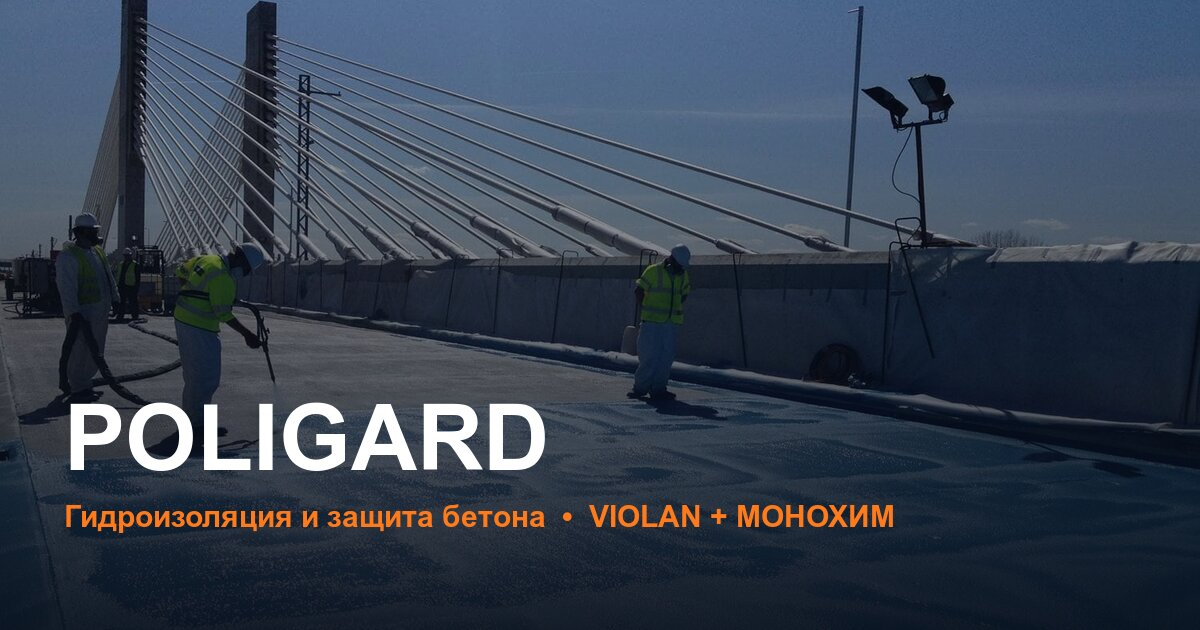
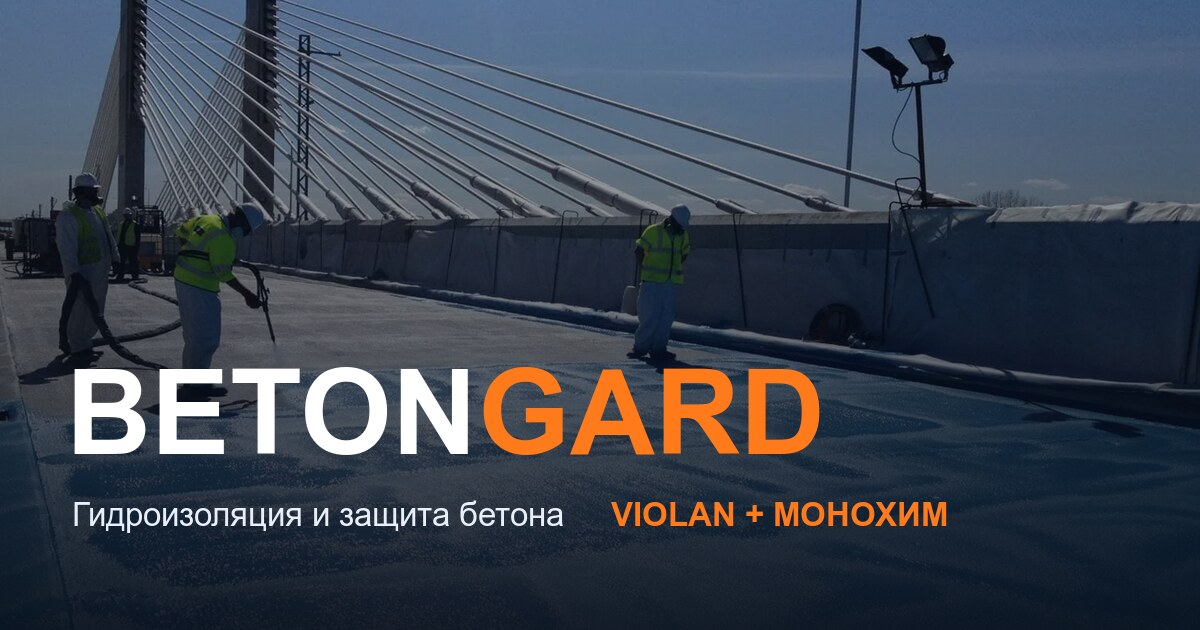
BETONGARD: пересоздан og-image (POLIGARD -> BETONGARD), +версия для сброса кэша соцсетей

Changed region(s): [[0.0, 0.0, 1.0, 0.8444]]

diff --git a/index.html b/index.html
@@ -13,12 +13,12 @@
   <meta property="og:title" content="BETONGARD: гидроизоляция и защита бетона | VIOLAN + МОНОХИМ">
   <meta property="og:description" content="Жидкая гидроизоляция, защита и ремонт бетона, промышленные полы. Собственное производство в Алматы. Срок службы покрытий 10–20 лет.">
   <meta property="og:url" content="https://ali-hub-01.github.io/betongard/">
-  <meta property="og:image" content="https://ali-hub-01.github.io/betongard/assets/og-image.jpg">
+  <meta property="og:image" content="https://ali-hub-01.github.io/betongard/assets/og-image.jpg?v=2">
   <meta property="og:locale" content="ru_RU">
   <meta name="twitter:card" content="summary_large_image">
   <meta name="twitter:title" content="BETONGARD: гидроизоляция и защита бетона | VIOLAN + МОНОХИМ">
   <meta name="twitter:description" content="Жидкая гидроизоляция, защита и ремонт бетона, промышленные полы. Собственное производство в Алматы.">
-  <meta name="twitter:image" content="https://ali-hub-01.github.io/betongard/assets/og-image.jpg">
+  <meta name="twitter:image" content="https://ali-hub-01.github.io/betongard/assets/og-image.jpg?v=2">
 
   <link rel="icon" type="image/svg+xml" href="assets/favicon.svg">
 
@@ -35,7 +35,7 @@
     "name": "BETONGARD",
     "description": "Строительная химия и гидроизоляция: жидкая гидроизоляция VIOLAN, материалы для защиты и ремонта бетона МОНОХИМ, промышленные полы.",
     "url": "https://ali-hub-01.github.io/betongard/",
-    "image": "https://ali-hub-01.github.io/betongard/assets/og-image.jpg",
+    "image": "https://ali-hub-01.github.io/betongard/assets/og-image.jpg?v=2",
     "telephone": "+77001000619",
     "address": {
       "@type": "PostalAddress",
